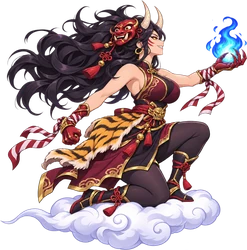
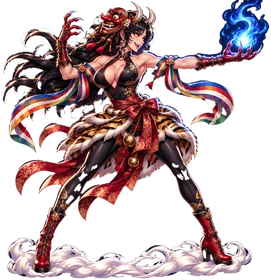
불가사리 aw4p 추가, 탈 도깨비 원본 달빛 극화체 교체
Claude-Session: https://claude.ai/code/session_01X3WCR5Skc58i6ujNZho15h

diff --git a/game/geumeum/dokkaebi-shooter.html b/game/geumeum/dokkaebi-shooter.html
@@ -879,7 +879,7 @@ const FONT = '"Black Han Sans","Apple SD Gothic Neo","Malgun Gothic",sans-serif'
 const IMG = {};
 for (const n of ['hp0', 'hp1', 'hp2n', 'hp2s', 'hc2n', 'hc2s', 'mh0', 'mh1', 'mh2', 'mh3', 'mh4', 'mh5', 'mh6', 'mh7', 'mh8', 'mh9', 'mw_wisp', 'mw_kite', 'mw_drum', 'mw_jar', 'mw_lantern', 'mw_dasher', 'mw_carp', 'mw_fox', 'f3_wisp', 'f3_kite', 'f3_dasher', 'f4_wisp', 'f4_kite', 'f4_dasher', 'f5_wisp', 'f5_kite', 'f5_dasher', 'f6_wisp', 'f6_kite', 'f6_dasher', 'f7_wisp', 'f7_kite', 'f7_dasher', 'f8_wisp', 'f8_kite', 'f8_dasher', 'f9_wisp', 'f9_kite', 'f9_dasher', 'wisp', 'kite', 'drum', 'jar', 'lantern', 'dasher', 'bz0c', 'bz0d', 'bz1a', 'bz8b', 'fg0', 'mini0a', 'mini0b', 'mini0c', 'mid0a', 'mid0b', 'p3', 'cut3x', 'p4', 'cut4x', 'carp', 'mini1a', 'mini1b', 'mini1c', 'mid1a', 'mid1b', 'bz1b', 'fg1', 'ironfx', 'p5', 'cut5x', 'fox', 'mini2a', 'mini2c', 'mid2a', 'boss3', 'bz2b', 'fg3', 'ch3', 'ch5', 'ch6', 'ch7', 'ch8', 'ch9', 'ch10', 'ch11', 'ch12', 'p6','cut6x','p7b','cut7x','p8b','cut8x','p9b','cut9x','p10','cut10x','p11b','cut11x','p12','cut12x','zk3','mini3a','mini3b','mini3c','mid3a','mid3b','bossH3','bz3b','zk4','mini4a','mini4b','mini4c','mid4a','mid4b','bossH4','bz4b','zk5','mini5a','mini5b','mini5c','mid5a','mid5b','bossH5','bz5b','zk6','mini6a','mini6b','mini6c','mid6a','mid6b','bossH6','bz6b','zk7','mini7a','mini7b','mini7c','mid7a','mid7b','bossH7','bz7b','zk8','mini8a','mini8b','mini8c','mid8a','mid8b','bossH8','zk9','mini9a','mini9b','mini9c','mid9a','mid9b','bossH9','bz9b', 'hc0x', 'hp1_o0', 'hc1_o0', 'hc1w', 'forgeAnvil', 'forgeHammer', 'chestC', 'chestG', 'chestE', 'tornado', 'arrowfx', 'hammerfx', 'talisman']) { const im = new Image(); im.src = 'assets/' + n + '.webp'; IMG[n] = im; }
 { const im = new Image(); im.src = 'assets/ch12m.webp'; IMG.ch12 = im; }
-for (const n of ['p13', 'p14', 'p15', 'p16', 'p17', 'p18', 'p19', 'p20', 'p21', 'p22', 'aw0p', 'aw1p', 'aw2p', 'aw1', 'aw2', 'aw5', 'aw5p', 'aw6', 'aw6p', 'aw7', 'aw7p', 'aw12', 'aw12p', 'aw14', 'aw14p', 'aw15', 'aw15p', 'aw17', 'aw17p', 'aw18', 'aw18p', 'aw21', 'aw21p', 'aw13', 'aw13p', 'rp_book', 'aw16', 'aw16p', 'aw19', 'aw19p', 'aw20', 'aw20p', 'cy_m0', 'cy_m1', 'cy_m2', 'cy_m3', 'aw22', 'aw22p', 'aw3', 'aw3p', 'aw4', 'dl_sword']) { const im = new Image(); im.src = 'assets/' + n + '.webp'; IMG[n] = im; } // 기획 15·17 새 그림도 처음부터 불러 둠
+for (const n of ['p13', 'p14', 'p15', 'p16', 'p17', 'p18', 'p19', 'p20', 'p21', 'p22', 'aw0p', 'aw1p', 'aw2p', 'aw1', 'aw2', 'aw5', 'aw5p', 'aw6', 'aw6p', 'aw7', 'aw7p', 'aw12', 'aw12p', 'aw14', 'aw14p', 'aw15', 'aw15p', 'aw17', 'aw17p', 'aw18', 'aw18p', 'aw21', 'aw21p', 'aw13', 'aw13p', 'rp_book', 'aw16', 'aw16p', 'aw19', 'aw19p', 'aw20', 'aw20p', 'cy_m0', 'cy_m1', 'cy_m2', 'cy_m3', 'aw22', 'aw22p', 'aw3', 'aw3p', 'aw4', 'aw4p', 'dl_sword']) { const im = new Image(); im.src = 'assets/' + n + '.webp'; IMG[n] = im; } // 기획 15·17 새 그림도 처음부터 불러 둠
 { const im = new Image(); im.src = 'assets/tower10.webp'; IMG.tower10 = im; } // 층 시작 때 보여 주는 탑 그림 // 여왕의 기: 달 구슬(새 그림)
 for (const n of ['bg0', 'bg1', 'bg2', 'bg3', 'bgS4', 'bgS5', 'bgS6', 'bgS7', 'bgS8', 'bgS10', 'bg0h', 'bg1h', 'bg2h', 'bg3h', 'bgS4h', 'bgS5h', 'bgS6h', 'bgS7h', 'bgS8h', 'bgS10h']) { const im = new Image(); im.src = 'assets/' + n + '.jpg'; IMG[n] = im; }
 const ok = im => im && im.complete && im.naturalWidth > 0;
@@ -3592,7 +3592,7 @@ function drawBossCut() { const b = G.boss; const U = b && b.ult; if (U && U.t < 
 { const a = drawWpFx; drawWpFx = function () { drawBsk17(); a(); }; }
 { const a = offerHero; offerHero = function () { const r = a(); if (r) { const L = BOSSK[G.stage]; if (L) $('offerText').textContent += ' — 이제 「' + L.slice(0, 3).map(x => x[1]).join('·') + '」는 내 것!'; } return r; }; }
 /* ---------- 기획 17-1·2: 각성 모습·움직임(잔상 3겹·달빛 고리·색 덧칠·꼬리) + 각성 전용 기본 공격·각성판 스킬 + 끝날 때 0.4초 ---------- */
-const AWK2 = { spr: { 0: 'aw0p', 1: 'aw1p', 2: 'aw2p', 3: 'aw3p', 5: 'aw5p', 6: 'aw6p', 7: 'aw7p', 12: 'aw12p', 13: 'aw13p', 14: 'aw14p', 15: 'aw15p', 16: 'aw16p', 17: 'aw17p', 18: 'aw18p', 19: 'aw19p', 20: 'aw20p', 21: 'aw21p', 22: 'aw22p' }, col: ['#9fffe0', '#ffd76a', '#cfe8ff'], trail: [5, 10, 15], endSec: 0.4, shotK: 1.3, skOff: [-28, 28], skK: 0.75 }; // spr: 각성 게임 캐릭터 그림(들어오면 { 0: 'aw0p', ... })
+const AWK2 = { spr: { 0: 'aw0p', 1: 'aw1p', 2: 'aw2p', 3: 'aw3p', 4: 'aw4p', 5: 'aw5p', 6: 'aw6p', 7: 'aw7p', 12: 'aw12p', 13: 'aw13p', 14: 'aw14p', 15: 'aw15p', 16: 'aw16p', 17: 'aw17p', 18: 'aw18p', 19: 'aw19p', 20: 'aw20p', 21: 'aw21p', 22: 'aw22p' }, col: ['#9fffe0', '#ffd76a', '#cfe8ff'], trail: [5, 10, 15], endSec: 0.4, shotK: 1.3, skOff: [-28, 28], skK: 0.75 }; // spr: 각성 게임 캐릭터 그림(들어오면 { 0: 'aw0p', ... })
 for (const k of Object.values(AWK2.spr)) needImg(k);
 const awCol = ch => AWK2.col[ch] || CH[ch].spark || CH[ch].robe;
 function drawAwakeP() { const ch = P.ch, sc = FUN2.awakeScale, img = (AWK2.spr[ch] && ok(IMG[AWK2.spr[ch]])) ? AWK2.spr[ch] : look(ch).img, h0 = CH[ch].h * SZ.p * sc, imw = IMG[img], h = ok(imw) && imw.naturalWidth > imw.naturalHeight * 1.05 ? h0 * 1.05 * imw.naturalHeight / imw.naturalWidth : h0, col = awCol(ch), L = G.awTrail || []; // 가로로 긴 그림은 폭 기준으로 줄여 다른 캐릭터와 크기를 맞춤

diff --git a/game/geumeum/README.md b/game/geumeum/README.md
@@ -378,14 +378,14 @@
 - (11/23 사용자) 강림도령 탄은 무기를 든 각도대로 날아감: 평소 기본 탄도 할버드 기울기(`MUZA[22]` = -0.25, 약 14도 위, 사용자 요청으로 낮춤), 각성 찌르기·번개 반달은 할버드 기울기(`AWK_KR.ang` = -0.25, 약 14도 위).
 
 ### 탈 도깨비 각성 「불 방망이」 (캐릭터 3, 기획 20 탈 도깨비 행)
-- 각성 그림 `aw3`, 각성 몸 `aw3p`(불 방망이를 어깨에 걸침, 손 위 도깨비불). 원본 `p3`·`cut3x`는 그대로. 몸 흔들기 없음. 각성 대사는 기존 「탈 속 도깨비불이 춤춘다!」.
+- 각성 그림 `aw3`, 각성 몸 `aw3p`(불 방망이를 어깨에 걸침, 손 위 도깨비불). 원본 `p3`·`cut3x`도 달빛 극화체로 교체(11/23, 서서 앞손에 푸른 도깨비불). 몸 흔들기 없음. 각성 대사는 기존 「탈 속 도깨비불이 춤춘다!」.
 - ① 자동: 불꽃 5갈래 부채꼴.
 - ② 보조: 푸른 도깨비불 셋이 둘레를 돌며 0.5초마다 따라가는 불탄.
 - ③ 스킬 불 춤: 불타는 방망이가 앞으로 굴러가며 닿는 적 피해·탄 제거(몸은 제자리).
 - ④ 끝: 방망이를 내려찍어 불기둥. 수치는 `AWK_TD`.
 
 ### 불가사리 각성 「쇠공」 (캐릭터 4, 기획 20 불가사리 행)
-- 원본 `p4`·`cut4x` 달빛 극화체로 교체(스킨 `_s1`은 예전 그림 색바꿈 그대로). 각성 그림 `aw4`. 각성 몸 `aw4p`는 아직 없음(오면 `AWK2.spr[4]`). 몸 흔들기 없음. 각성 대사는 기존 「쇠도 먹고 달도 먹는다!」.
+- 원본 `p4`·`cut4x` 달빛 극화체로 교체(스킨 `_s1`은 예전 그림 색바꿈 그대로). 각성 그림 `aw4`. 각성 몸 `aw4p`(두 주먹으로 쇠공 사슬). 몸 흔들기 없음. 각성 대사는 기존 「쇠도 먹고 달도 먹는다!」.
 - ① 자동: 쇠공을 위아래 번갈아 던짐(무겁고 느림, 꿰뚫음).
 - ② 보조: 몸 가까이 온 적 탄을 먹어 체력 회복(탄 2개당 1).
 - ③ 스킬: 쇠사슬 회전 1.2초(둘레 지속 피해·탄 제거).
